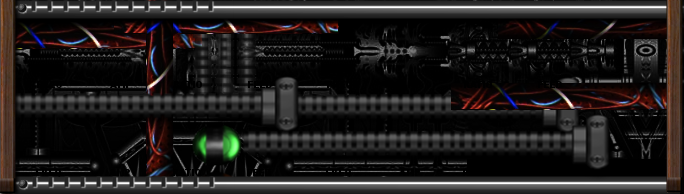
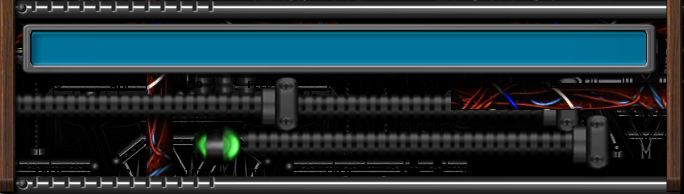
Work-in-porgress on Core Panel....

Changed region(s): [[0.0307, 0.1237, 0.9825, 0.4021]]

diff --git a/code/lunar_prolog_core_panel.cpp b/code/lunar_prolog_core_panel.cpp
@@ -191,11 +191,11 @@ public:
 	void redraw (cairo_t * cr) {
 		START . draw (cr); RECORD . draw (cr); AUDIO_INPUT . draw (cr); AUDIO_OUTPUT . draw (cr);
 		SAMPLING_RATE . draw (cr), LATENCY_BLOCK_SIZE . draw (cr);
-		cairo_set_font_size (cr, 20.0);
+		cairo_set_font_size (cr, 12.0);
 		cairo_set_source_rgb (cr, 0.0, 1.0, 0.0);
-		cairo_move_to (cr, 104.0, 32.0);
+		cairo_move_to (cr, 34.0, 46.0);
 		cairo_show_text (cr, requested_input_device >= 0 ? audio . getInputDeviceName (requested_input_device) : "Inactive");
-		cairo_move_to (cr, 104.0, 64.0);
+		cairo_move_to (cr, 34.0, 60.0);
 		cairo_show_text (cr, requested_output_device >= 0 ? audio . getOutputDeviceName (requested_output_device) : "Inactive");
 		cairo_move_to (cr, 104.0, 96.0);
 		cairo_show_text (cr, index_to_sampling_freq_description (sampling_rate_to_index (requested_sampling_rate)));
@@ -315,6 +315,7 @@ void core_panel_action :: MouseKeyon (point location, int button) {
 	if (AUDIO_INPUT . keyon (location)) {
 		AUDIO_INPUT . engaged = true;
 		GtkWidget * list_window = gtk_window_new (GTK_WINDOW_TOPLEVEL);
+		gtk_window_set_title (GTK_WINDOW (list_window), "INPUT");
 		gtk_window_move (GTK_WINDOW (list_window), (int) this -> location . x, (int) this -> location . y);
 		gtk_window_set_modal (GTK_WINDOW (list_window), true);
 		GtkListStore * store = gtk_list_store_new (1, G_TYPE_STRING);
@@ -379,7 +380,7 @@ void core_panel_action :: MouseKeyon (point location, int button) {
 		gtk_tree_view_set_headers_visible (GTK_TREE_VIEW (list), FALSE);
 		gtk_tree_view_append_column (GTK_TREE_VIEW (list), gtk_tree_view_column_new_with_attributes ("IO", gtk_cell_renderer_text_new (), "text", 0, NULL));
 		GtkTreeSelection * selection = gtk_tree_view_get_selection (GTK_TREE_VIEW (list));
-		GtkTreePath * path = gtk_tree_path_new_from_indices (requested_output_device + 1, -1);
+		GtkTreePath * path = gtk_tree_path_new_from_indices (sampling_rate_to_index (requested_sampling_rate), -1);
 		gtk_tree_selection_select_path (selection, path);
 		gtk_tree_path_free (path);
 		gtk_tree_selection_set_mode (selection, GTK_SELECTION_SINGLE);
@@ -404,7 +405,7 @@ void core_panel_action :: MouseKeyon (point location, int button) {
 		gtk_tree_view_set_headers_visible (GTK_TREE_VIEW (list), FALSE);
 		gtk_tree_view_append_column (GTK_TREE_VIEW (list), gtk_tree_view_column_new_with_attributes ("IO", gtk_cell_renderer_text_new (), "text", 0, NULL));
 		GtkTreeSelection * selection = gtk_tree_view_get_selection (GTK_TREE_VIEW (list));
-		GtkTreePath * path = gtk_tree_path_new_from_indices (requested_output_device + 1, -1);
+		GtkTreePath * path = gtk_tree_path_new_from_indices ((int) log2 ((double) requested_latency_buffer_size), -1);
 		gtk_tree_selection_select_path (selection, path);
 		gtk_tree_path_free (path);
 		gtk_tree_selection_set_mode (selection, GTK_SELECTION_SINGLE);
